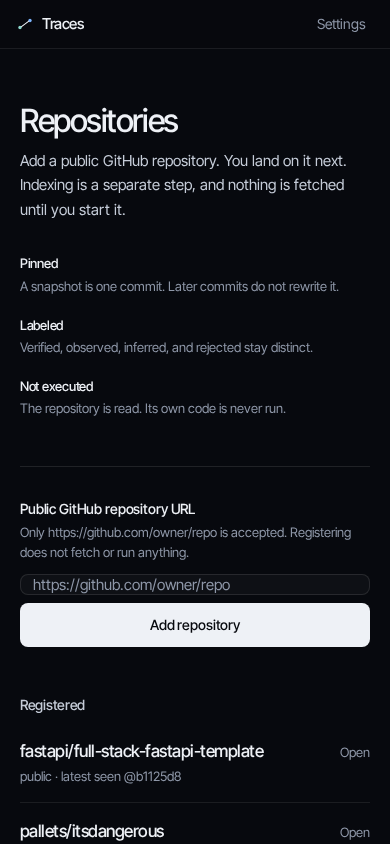
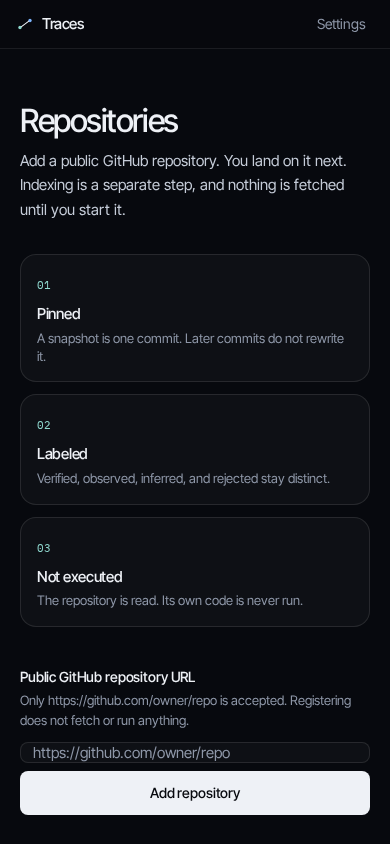
Make the architecture the page, not a list beside it.
Components sit in layer bands. A relationship inside a layer is a curve with its recorded count. A relationship across layers is a line between columns. The map is full width, and the strongest links are drawn as bars under it.

diff --git a/web/src/features/graph/GraphCanvas.tsx b/web/src/features/graph/GraphCanvas.tsx
@@ -47,26 +47,27 @@ function positionsFor(model: { data: ElementData }[], layout: "map" | "neighborh
   return layout === "map" ? columnLayout(nodes, edges) : depthLayout(nodes, edges);
 }
 
-/** Orthogonal route that stays in the gaps. A line that would cross another column uses the channel under the row. */
-function elbow(a: { x: number; y: number }, b: { x: number; y: number }, lane: number, busY: number) {
+/** A route that stays readable. Same-layer links bow out beside the column. Cross-layer links stay in the gaps. */
+function route(a: { x: number; y: number }, b: { x: number; y: number }, lane: number, busY: number) {
   const sameCol = Math.abs(a.x - b.x) < 48;
   if (sameCol) {
-    const dir = b.y >= a.y ? 1 : -1;
-    const yLeave = a.y + dir * 28;
-    const yEnter = b.y - dir * 28;
-    const x = Math.min(a.x, b.x) - 108 + lane;
-    return `M ${a.x - 86} ${yLeave} H ${x} V ${yEnter} H ${b.x - 86}`;
+    const down = b.y >= a.y;
+    const y1 = a.y + (down ? 18 : -18);
+    const y2 = b.y + (down ? -18 : 18);
+    const bow = Math.min(70, 26 + Math.abs(b.y - a.y) * 0.1) + Math.abs(lane);
+    const x = Math.max(a.x, b.x) + 96 + bow;
+    return { d: `M ${a.x + 84} ${y1} C ${x} ${y1}, ${x} ${y2}, ${b.x + 84} ${y2}`, lx: x - 6, ly: (y1 + y2) / 2 };
   }
   const dir = b.x >= a.x ? 1 : -1;
   const x1 = a.x + dir * 88;
   const x2 = b.x - dir * 88;
   if (Math.abs(a.x - b.x) > 300) {
     const y = busY + lane;
-    return `M ${x1} ${a.y} V ${y} H ${x2} V ${b.y}`;
+    return { d: `M ${x1} ${a.y} V ${y} H ${x2} V ${b.y}`, lx: (x1 + x2) / 2, ly: y - 8 };
   }
-  if (Math.abs(a.y - b.y) < 6 && Math.abs(lane) < 1) return `M ${x1} ${a.y} H ${x2}`;
+  if (Math.abs(a.y - b.y) < 6 && Math.abs(lane) < 1) return { d: `M ${x1} ${a.y} H ${x2}`, lx: (x1 + x2) / 2, ly: a.y - 8 };
   const mid = (a.x + b.x) / 2 + lane;
-  return `M ${x1} ${a.y} H ${mid} V ${b.y} H ${x2}`;
+  return { d: `M ${x1} ${a.y} H ${mid} V ${b.y} H ${x2}`, lx: mid, ly: (a.y + b.y) / 2 };
 }
 
 export interface GraphCanvasProps {
@@ -97,10 +98,10 @@ export function GraphCanvas({ elements, layout, selected, onSelect, onExpand, on
   const frame = useMemo(() => {
     const pts = nodes.map((n) => pos[n.data.id]).filter((p): p is { x: number; y: number } => !!p);
     if (pts.length === 0) return { minX: 0, minY: 0, w: 320, h: 180 };
-    const minX = Math.min(...pts.map((p) => p.x)) - 148;
-    const minY = Math.min(...pts.map((p) => p.y)) - 78;
-    const maxX = Math.max(...pts.map((p) => p.x)) + 120;
-    const maxY = Math.max(...pts.map((p) => p.y)) + 96;
+    const minX = Math.min(...pts.map((p) => p.x)) - 36;
+    const minY = Math.min(...pts.map((p) => p.y)) - 72;
+    const maxX = Math.max(...pts.map((p) => p.x)) + 250;
+    const maxY = Math.max(...pts.map((p) => p.y)) + 110;
     return { minX, minY, w: Math.max(280, maxX - minX), h: Math.max(180, maxY - minY) };
   }, [nodes, pos]);
   const at = (id: string | undefined) => {
@@ -133,14 +134,22 @@ export function GraphCanvas({ elements, layout, selected, onSelect, onExpand, on
     }
     return bottom + 26;
   }, [nodes, pos, frame]);
-  const headers = useMemo(() => {
-    const cols = new Map<string, { x: number; y: number; layer: string }>();
+  const bands = useMemo(() => {
+    const cols = new Map<string, { x: number; top: number; bottom: number; layer: string }>();
     for (const n of nodes) {
-      const p = at(n.data.id);
-      if (!p || !n.data.layer) continue;
-      const key = `${Math.round(p.x / 8)}:${n.data.layer}`;
+      const p0 = pos[n.data.id];
+      if (!p0) continue;
+      const p = { x: p0.x - frame.minX, y: p0.y - frame.minY };
+      const box = nodeBox(n.data);
+      const key = `${Math.round(p.x / 8)}:${n.data.layer ?? "other"}`;
+      const top = p.y - box.h / 2;
+      const bottom = p.y + box.h / 2;
       const cur = cols.get(key);
-      if (!cur || p.y < cur.y) cols.set(key, { x: p.x, y: p.y, layer: n.data.layer });
+      if (!cur) cols.set(key, { x: p.x, top, bottom, layer: n.data.layer ?? "other" });
+      else {
+        cur.top = Math.min(cur.top, top);
+        cur.bottom = Math.max(cur.bottom, bottom);
+      }
     }
     return [...cols.values()];
   }, [nodes, pos, frame]);
@@ -240,8 +249,6 @@ export function GraphCanvas({ elements, layout, selected, onSelect, onExpand, on
     }
   };
 
-  const showLabels = false;
-
   return (
     <div>
       <div className="mb-2 flex flex-wrap items-center gap-x-3 gap-y-2">
@@ -296,10 +303,14 @@ export function GraphCanvas({ elements, layout, selected, onSelect, onExpand, on
               <path d="M 0 1.2 L 8 5 L 0 8.8 z" fill="context-stroke" />
             </marker>
           </defs>
-          {headers.map((h) => (
-            <text key={`${h.layer}-${h.x}`} x={h.x} y={h.y - 40} textAnchor="middle" fill={layerColor(h.layer)} fontSize="11" fontFamily={SANS} fontWeight={500} letterSpacing="0.6">
-              {layerTitle(h.layer)}
-            </text>
+          {bands.map((b) => (
+            <g key={`${b.layer}-${b.x}`}>
+              <rect x={b.x - 96} y={b.top - 28} width={192} height={b.bottom - b.top + 44} rx="18" fill={layerColor(b.layer)} opacity="0.08" />
+              <rect x={b.x - 96} y={b.top - 28} width={192} height="2" rx="1" fill={layerColor(b.layer)} />
+              <text x={b.x - 84} y={b.top - 36} textAnchor="start" fill={layerColor(b.layer)} fontSize="12" fontFamily={SANS} fontWeight={600} letterSpacing="0.4">
+                {layerTitle(b.layer)}
+              </text>
+            </g>
           ))}
           {visibleEdges.map((e) => {
             const a = at(e.data.source);
@@ -309,25 +320,31 @@ export function GraphCanvas({ elements, layout, selected, onSelect, onExpand, on
             const dim = !!linked && !hot;
             const color = TONE[e.data.tone ?? "verified"] ?? TONE.verified;
             const dash = e.data.line === "dashed" ? "6 4" : e.data.line === "dotted" ? "2 3" : undefined;
-            const midX = (a.x + b.x) / 2;
-            const midY = (a.y + b.y) / 2;
+            const drawn = route(a, b, lanes.get(e.data.id) ?? 0, busY);
+            const near = Math.abs(a.x - b.x) <= 280;
+            const showLabel = hot || (near && visibleEdges.length <= 16);
+            const text = clip(e.data.label, 18);
+            const plate = Math.max(28, text.length * 6.6 + 10);
             return (
-              <g key={e.data.id} opacity={dim ? 0.12 : 0.92}>
+              <g key={e.data.id} opacity={dim ? 0.16 : 1}>
                 <path
-                  d={elbow(a, b, lanes.get(e.data.id) ?? 0, busY)}
+                  d={drawn.d}
                   fill="none"
                   stroke={hot ? "#e7edf5" : color}
-                  strokeWidth={hot ? 2.4 : Math.min(1.8, 0.75 + (e.data.weight ?? 1.5) * 0.28)}
+                  strokeWidth={hot ? 2.6 : Math.min(3.4, 1.2 + (e.data.weight ?? 1.5) * 0.4)}
                   strokeLinecap="round"
                   strokeLinejoin="round"
                   strokeDasharray={dash}
                   markerEnd={`url(#${marker}-arrow)`}
                 />
-                <path d={elbow(a, b, lanes.get(e.data.id) ?? 0, busY)} fill="none" stroke="transparent" strokeWidth={14} className="cursor-pointer" onClick={() => (e.data.id.startsWith("rollup::") ? onSelect(e.data.source ?? null) : onEdge(e.data.id))} />
-                {showLabels || hot ? (
-                  <text x={midX} y={midY - 6} textAnchor="middle" fill="#c5ccd8" fontSize="11" fontFamily={SANS}>
-                    {clip(e.data.label, 28)}
-                  </text>
+                <path d={drawn.d} fill="none" stroke="transparent" strokeWidth={16} className="cursor-pointer" onClick={() => (e.data.id.startsWith("rollup::") ? onSelect(e.data.source ?? null) : onEdge(e.data.id))} />
+                {showLabel ? (
+                  <g>
+                    <rect x={drawn.lx - plate / 2} y={drawn.ly - 9} width={plate} height={16} rx="4" fill="#090c13" opacity="0.92" />
+                    <text x={drawn.lx} y={drawn.ly + 3} textAnchor="middle" fill="#eef1f6" fontSize="11" fontFamily={SANS}>
+                      {text}
+                    </text>
+                  </g>
                 ) : null}
               </g>
             );
@@ -339,24 +356,23 @@ export function GraphCanvas({ elements, layout, selected, onSelect, onExpand, on
             const [l1, l2] = nodeLines(n.data);
             const on = selected === n.data.id;
             const dim = !!linked && !linked.has(n.data.id);
-            const railH = Math.min(box.h - 16, l2 ? 26 : 16);
             return (
               <g
                 key={n.data.id}
                 data-node-id={n.data.id}
                 transform={`translate(${p.x - box.w / 2} ${p.y - box.h / 2})`}
-                opacity={dim ? 0.28 : 1}
+                opacity={dim ? 0.34 : 1}
                 className="cursor-pointer"
                 onClick={() => onSelect(n.data.id)}
                 onDoubleClick={() => onExpand(n.data.id)}
               >
-                <rect width={box.w} height={box.h} rx="8" fill={on ? "rgba(255,255,255,0.05)" : "transparent"} stroke={on ? "#eef1f6" : "transparent"} strokeWidth="1.25" />
-                <rect x="1" y={(box.h - railH) / 2} width="2" height={railH} rx="1" fill={layerColor(n.data.layer)} />
-                <text x={12} y={l2 ? 22 : 26} textAnchor="start" fill="#f4f7fb" fontSize="14" fontFamily={SANS} fontWeight={500}>
+                <rect width={box.w} height={box.h} rx="10" fill={on ? "#171d28" : "#10141c"} stroke={on ? "#eef1f6" : "rgba(255,255,255,0.14)"} strokeWidth={on ? 1.5 : 1} />
+                <rect x="0" y="8" width="3" height={box.h - 16} rx="1.5" fill={layerColor(n.data.layer)} />
+                <text x={14} y={l2 ? 22 : 30} textAnchor="start" fill="#f4f7fb" fontSize="14" fontFamily={SANS} fontWeight={500}>
                   {l1}
                 </text>
                 {l2 ? (
-                  <text x={12} y={37} textAnchor="start" fill="#8e97a8" fontSize="11" fontFamily={SANS}>
+                  <text x={14} y={38} textAnchor="start" fill="#8e97a8" fontSize="11" fontFamily={SANS}>
                     {l2}
                   </text>
                 ) : null}
@@ -388,27 +404,37 @@ export function RecordedLinks({
   onPick: (id: string) => void;
 }) {
   const ranked = [...rolls].sort((a, b) => linkRank(b.data.label) - linkRank(a.data.label) || a.data.id.localeCompare(b.data.id)).slice(0, 6);
+  const max = Math.max(1, ...ranked.map((e) => linkRank(e.data.label)));
   if (ranked.length === 0) {
     return <p className="rounded-lg border border-dashed border-line-strong p-3 text-sm text-ink-2">No relationship on this page connects two components. That is not proof that nothing connects.</p>;
   }
   return (
     <div aria-label="Strongest recorded links">
-      <h3 className="text-sm font-medium tracking-[-0.02em] text-ink">Strongest links</h3>
-      <ul className="mt-2 flex flex-col">
-        {ranked.map((e) => (
-          <li key={e.data.id} className="border-t border-line first:border-t-0">
-            <button type="button" onClick={() => e.data.source && onPick(e.data.source)} className="tap flex w-full items-baseline justify-between gap-3 rounded-md px-1 text-left text-sm hover:bg-sunken">
-              <span className="min-w-0 break-words">
-                <span className="font-medium text-ink">{nameOf(e.data.source)}</span>
-                <span className="text-muted"> to </span>
-                <span className="text-ink-2">{nameOf(e.data.target)}</span>
-              </span>
-              <span className="shrink-0 font-mono text-[11px] text-muted">{e.data.label}</span>
-            </button>
-          </li>
-        ))}
+      <h3 className="text-sm font-medium tracking-[-0.02em] text-ink">Strongest links on this page</h3>
+      <ul className="mt-3 grid gap-2 sm:grid-cols-2 xl:grid-cols-3">
+        {ranked.map((e) => {
+          const n = linkRank(e.data.label);
+          const tone = TONE[e.data.tone ?? "verified"] ?? TONE.verified;
+          return (
+            <li key={e.data.id}>
+              <button type="button" onClick={() => e.data.source && onPick(e.data.source)} className="flex min-h-11 w-full items-center gap-3 rounded-xl border border-white/10 bg-white/[0.03] px-3 py-2 text-left hover:border-white/25">
+                <span className="min-w-0 flex-1">
+                  <span className="block truncate text-sm font-medium text-ink">{nameOf(e.data.source)}</span>
+                  <span className="my-1.5 block h-1.5 overflow-hidden rounded-full bg-white/10" aria-hidden="true">
+                    <span className="block h-1.5 rounded-full" style={{ width: `${Math.max(12, (n / max) * 100)}%`, background: tone }} />
+                  </span>
+                  <span className="block truncate text-[13px] text-ink-2">{nameOf(e.data.target)}</span>
+                </span>
+                <span className="shrink-0 text-right">
+                  <span className="block font-mono text-lg tabular-nums leading-none text-ink">{n || e.data.label}</span>
+                  <span className="mt-1 block text-[10px] uppercase tracking-[0.12em] text-muted">recorded</span>
+                </span>
+              </button>
+            </li>
+          );
+        })}
       </ul>
-      <p className="mt-3 text-xs leading-relaxed text-muted">A count of recorded relationships, not a new claim. Select a component to read every link that touches it.</p>
+      <p className="mt-3 text-xs leading-relaxed text-muted">The bar is how many relationships this page recorded between those two components. It is not a new claim. Select a component to read every link that touches it.</p>
     </div>
   );
 }

diff --git a/web/src/features/repos/Home.tsx b/web/src/features/repos/Home.tsx
@@ -42,19 +42,20 @@ export function Home() {
   const serverError = register.error instanceof ApiError ? register.error : null;
 
   return (
-    <main id="main" tabIndex={-1} className="mx-auto max-w-2xl px-5 py-14 focus:outline-none sm:py-20">
+    <main id="main" tabIndex={-1} className="mx-auto max-w-5xl px-5 py-14 focus:outline-none sm:py-16">
       <PageHeader title="Repositories">Add a public GitHub repository. You land on it next. Indexing is a separate step, and nothing is fetched until you start it.</PageHeader>
 
-      <dl className="grid gap-x-8 gap-y-5 sm:grid-cols-3" aria-label="How Traces treats a repository">
-        {NOTES.map((n) => (
-          <div key={n.title}>
-            <dt className="text-[13px] font-medium tracking-[-0.02em] text-ink">{n.title}</dt>
-            <dd className="mt-1 text-[13px] leading-snug text-muted">{n.body}</dd>
-          </div>
+      <ol className="mt-2 grid gap-3 sm:grid-cols-3" aria-label="How Traces treats a repository">
+        {NOTES.map((n, i) => (
+          <li key={n.title} className="rounded-2xl border border-white/10 bg-white/[0.03] px-4 py-4">
+            <span className="font-mono text-[11px] text-verified">0{i + 1}</span>
+            <p className="mt-2 text-[15px] font-medium tracking-[-0.02em]">{n.title}</p>
+            <p className="mt-1 text-[13px] leading-snug text-muted">{n.body}</p>
+          </li>
         ))}
-      </dl>
+      </ol>
 
-      <form onSubmit={submit} noValidate className="mt-12 border-t border-white/10 pt-8" aria-label="Add a repository">
+      <form onSubmit={submit} noValidate className="mt-10 max-w-2xl" aria-label="Add a repository">
         <label id={`${inputId}-label`} htmlFor={inputId} className="block text-sm font-medium tracking-[-0.01em]">
           Public GitHub repository URL
         </label>
@@ -111,10 +112,11 @@ export function Home() {
               <li key={r.id} className="border-b border-white/8">
                 <Link
                   to={`/r/${encodeURIComponent(r.id)}`}
-                  className="group flex items-baseline justify-between gap-4 py-4 text-ink no-underline hover:no-underline"
+                  className="group flex items-center gap-4 border-b border-white/8 py-4 text-ink no-underline hover:no-underline"
                 >
-                  <span className="min-w-0">
-                    <span className="block text-[17px] font-medium tracking-[-0.03em]">
+                  <span className="h-10 w-1 shrink-0 rounded-full bg-verified" aria-hidden="true" />
+                  <span className="min-w-0 flex-1">
+                    <span className="block text-[18px] font-medium tracking-[-0.03em]">
                       {r.owner}/{r.name}
                     </span>
                     <span className="mt-0.5 block text-[13px] text-muted">

diff --git a/web/src/features/graph/GraphPage.tsx b/web/src/features/graph/GraphPage.tsx
@@ -460,7 +460,7 @@ export default function GraphPage() {
         <ErrorState error={graph.error} what="The architecture graph" />
       ) : (
         <>
-          <div className="grid items-start gap-3 lg:grid-cols-[1fr_18rem]">
+          <div className="flex flex-col gap-4">
             <div className="min-w-0">
               {graph.data.nodes.length === 0 ? (
                 <Empty title="Nothing matches these filters">Try including inferred relationships or clearing the search.</Empty>
@@ -574,7 +574,7 @@ export default function GraphPage() {
                 )
               ) : null}
               {!state.focus ? (
-                <p className="text-xs text-ink-2">Lines between neighboring columns are on the map. A line counts relationships on this page. The weakest status in the pair sets the line. Select a component to read every link that touches it, including ones that skip a column. A missing line is not proof that nothing connects.</p>
+                <p className="text-xs text-ink-2">A curve beside a column is a relationship inside that layer. A line between columns crosses layers. Thickness is how many relationships this page recorded. The color is the weakest status in the pair. Select a component to read every link that touches it, including ones that skip a column. A missing line is not proof that nothing connects.</p>
               ) : (
                 <p className="text-xs text-muted">{useFiles ? "Files first. Select a file to emphasize the lines recorded from it. Enter opens its symbols. A line is a count, not a new claim." : "Select a symbol to label its lines. List shows every relationship."}</p>
               )}

diff --git a/web/src/features/views/OverviewPage.tsx b/web/src/features/views/OverviewPage.tsx
@@ -20,12 +20,21 @@ function SnapshotCounts() {
   const by = (s.stats as { by_status?: Record<string, number> }).by_status ?? {};
   const shown = Object.entries(by).filter(([st]) => !presentStatus({ status: st, label: LABEL_FOR[st] }, "default").hidden);
   const rejected = by.rejected ?? 0;
+  const total = shown.reduce((sum, [, n]) => sum + n, 0) || 1;
+  const bar: Record<string, string> = { verified: "#8fd9cf", observed: "#b7c4ce", unvalidated: "#e2b16a", missing_location: "#e2b16a" };
   return (
     <div className="mb-6 border-t border-white/10 pt-5">
       <div className="mb-3 flex items-baseline justify-between gap-3">
         <h2 className="text-sm font-medium tracking-[-0.02em]">Evidence in this snapshot</h2>
         <p className="text-xs text-muted">Schema {s.evidence_schema}</p>
       </div>
+      {shown.length ? (
+        <div className="mb-3 flex h-2.5 overflow-hidden rounded-full bg-white/10" role="img" aria-label={`Evidence mix: ${shown.map(([st, n]) => `${LABEL_FOR[st] ?? st} ${n}`).join(", ")}`}>
+          {shown.map(([st, n]) => (
+            <span key={st} style={{ width: `${(n / total) * 100}%`, background: bar[st] ?? "#c4b4ea" }} />
+          ))}
+        </div>
+      ) : null}
       <ul className="flex flex-wrap gap-2" data-testid="snapshot-counts">
         {shown.map(([st, n]) => (
           <li key={st} className="inline-flex items-baseline gap-2">

diff --git a/web/src/styles.css b/web/src/styles.css
@@ -170,7 +170,7 @@
   max-width: 16rem;
   border-radius: 6px;
   border: 1px solid var(--color-verified);
-  background: transparent;
+  background: #10141c;
   padding: 0.2rem 0.55rem;
   text-align: left;
   color: var(--color-ink);
@@ -317,9 +317,9 @@
   }
   .flow-rail > li::after,
   .flow-rail > .flow-rail-item::after {
-    width: 1.15rem;
+    width: 2.4rem;
     height: 0;
-    margin: 0 0.1rem;
+    margin: 0 0.15rem;
     border-left: 0;
     border-top: 2px solid var(--color-verified);
     align-self: center;
@@ -335,8 +335,9 @@
     border-top-color: var(--color-unknown);
   }
   .flow-stop {
-    width: 8.75rem;
-    max-width: 8.75rem;
+    width: 10rem;
+    max-width: 10rem;
+    background: #10141c;
   }
   .flow-hop,
   .flow-detail {
@@ -401,11 +402,12 @@
 
 .stage {
   height: auto;
-  max-height: min(72vh, 42rem);
-  min-height: 12rem;
+  max-height: min(78vh, 52rem);
+  min-height: 28rem;
   overflow: auto;
   background:
-    linear-gradient(180deg, rgb(255 255 255 / 0.035), transparent 9rem),
+    radial-gradient(1200px 280px at 20% -10%, rgb(126 182 255 / 0.08), transparent 60%),
+    linear-gradient(180deg, rgb(255 255 255 / 0.03), transparent 8rem),
     #090c13;
 }
 

diff --git a/web/src/features/views/SystemMap.tsx b/web/src/features/views/SystemMap.tsx
@@ -57,7 +57,7 @@ export function SystemMap() {
 
   return (
     <section className="mb-4" aria-label="Architecture map">
-      <div className="grid items-start gap-3 lg:grid-cols-[minmax(0,1fr)_17rem]">
+      <div className="flex flex-col gap-4">
         <div className="min-w-0">
           {phoneList ? (
             <div className="mb-2 max-w-full overflow-x-auto">

diff --git a/docs/acceptance/WALKTHROUGH.md b/docs/acceptance/WALKTHROUGH.md
@@ -36,7 +36,7 @@ Desktop shots are 1280×860. Phone shots are 390×844.
 
 - Static analysis only. No runtime behavior has been observed.
 - A call into a library that cannot be checked stays inferred. It is not promoted to verified.
-- The default graph is capped. The template's relationship page says it is truncated. Show more recorded relationships raises that page from 300 to 800, then to 2000. 2000 is the API cap, not the whole repository. The opening picture is every stored component, in layer columns, with counts from that page only. A phone opens one layer so the names stay readable.
+- The opening picture is the page. Components sit in layer bands. A curve beside a column is a relationship inside that layer, and the number on it is a count from this page, not a new claim. A line between columns crosses layers. Show more recorded relationships raises that page from 300 to 800, then to 2000. 2000 is the API cap, not the whole repository. A phone opens one layer so the names stay readable.
 - An expanded component with many symbols opens as files. Select a file to see the lines recorded from it, then open the file to see the symbols. List still has every relationship. That is a view limit, not a smaller graph.
 - History is Git evidence for the indexed commit. It does not invent an architecture for commits that were not indexed, and co-change is not a call graph.
 - Component groups come from a stored path rule. They are not a runtime boundary.
